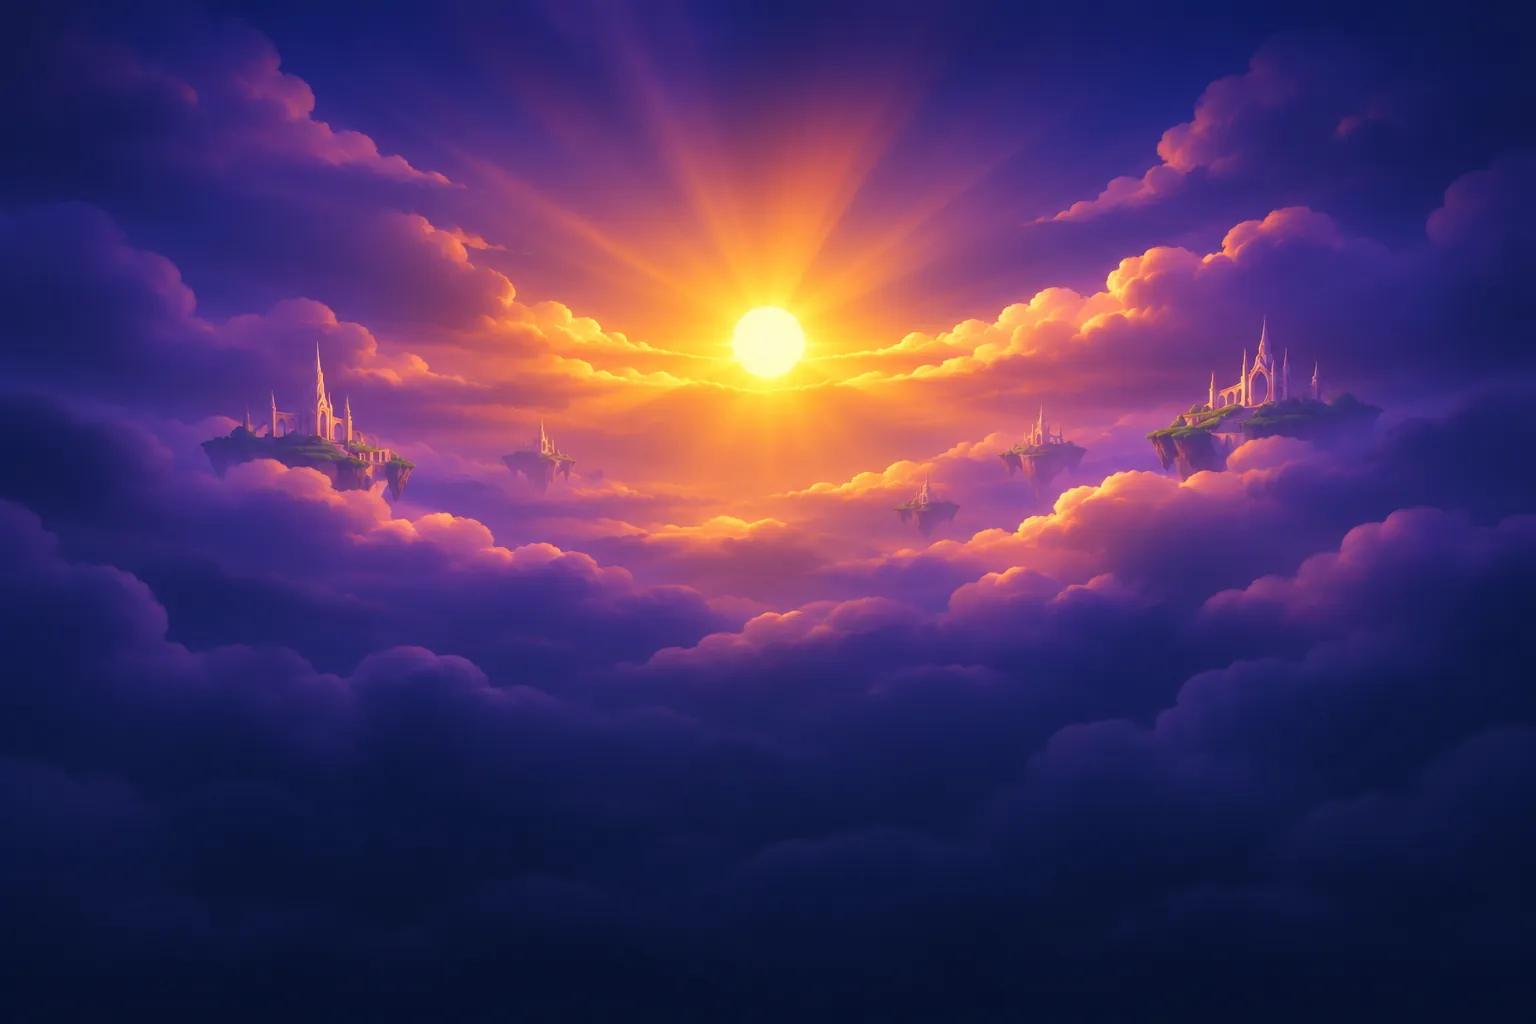
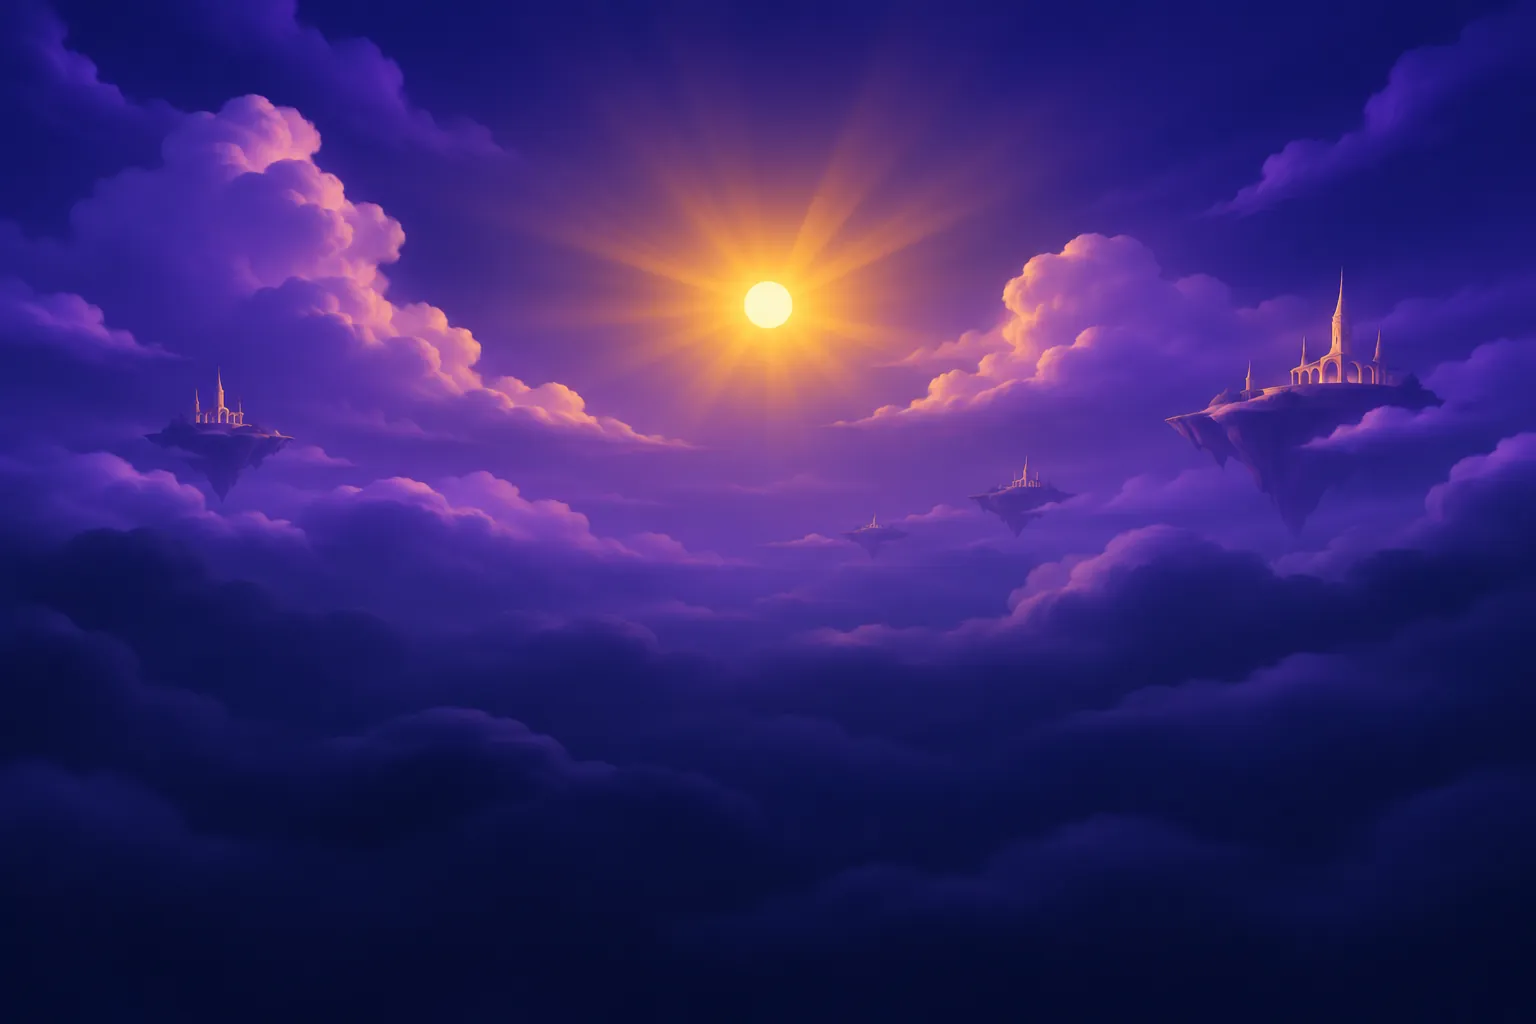
feat(site): a ?tune panel for placing the top scene's pieces; new sky and Oona + Recaller art
Adding ?tune to the address loads a panel to move, resize and set the mouse slide of
each layer, the logo and the words, separately for desktop and phone, and copy the
numbers out. It is a separate chunk, never downloaded by an ordinary visit.

diff --git a/apps/site/src/tuner.ts b/apps/site/src/tuner.ts
@@ -1,0 +1,204 @@
+/**
+ * The top section tuner: a panel for moving and resizing the scene's pieces live. Opened by adding `?tune` to the page
+ * address, and loaded only then, so an ordinary visitor never downloads it. Nothing here changes the page for anyone
+ * else: the numbers are kept in this browser and copied out as text to be written into the stylesheet by hand.
+ *
+ * A piece's offset uses the CSS `translate` and `scale` properties, which stack with the `transform` the mouse parallax
+ * writes, so the two never fight. Offsets are in the scene's own unit (`--u`, or `vw` on a phone) so they hold at any
+ * window size.
+ */
+
+interface Tune {
+  x: number;
+  y: number;
+  size: number;
+  depth: number;
+}
+type Layout = 'desktop' | 'phone';
+type Saved = Record<Layout, Record<string, Tune>>;
+
+const KEY = 'ascent-site-top-tune';
+const PIECES: ReadonlyArray<readonly [id: string, label: string, selector: string]> = [
+  ['left-front', 'Drakko + Paragon', '.top__team--left-front'],
+  ['left-back', 'Brian + Lastlight', '.top__team--left-back'],
+  ['right-front', 'Sylus + Voss', '.top__team--right-front'],
+  ['right-back', 'Oona + Recaller', '.top__team--right-back'],
+  ['sky', 'Sky', '.top__sky'],
+  ['logo', 'Logo', '.top__crest'],
+  ['words', 'Headline and button', '.top__inner'],
+];
+
+const CSS = `
+.tuner{position:fixed;top:12px;right:12px;z-index:9999;width:270px;padding:12px;border-radius:10px;font:13px/1.35 system-ui,sans-serif;
+  color:#f3ecdd;background:#0d1220ee;border:1px solid #c9a24a;box-shadow:0 12px 30px #000a;text-align:left}
+.tuner h2{margin:0 0 8px;font:700 13px system-ui,sans-serif;letter-spacing:.08em;text-transform:uppercase;color:#e9c46a}
+.tuner select,.tuner button{font:inherit;color:inherit;background:#1b2338;border:1px solid #47506b;border-radius:6px;padding:5px 8px}
+.tuner select{width:100%;margin-bottom:8px}
+.tuner label{display:grid;grid-template-columns:44px 1fr 52px;align-items:center;gap:6px;margin:4px 0}
+.tuner input[type=range]{width:100%}
+.tuner input[type=number]{width:52px;font:inherit;color:inherit;background:#1b2338;border:1px solid #47506b;border-radius:6px;padding:3px 4px}
+.tuner .row{display:flex;gap:6px;margin-top:8px;flex-wrap:wrap}
+.tuner .hint{margin:8px 0 0;font-size:12px;color:#aab2c8}
+.tuner .mode{float:right;font-weight:400;letter-spacing:0;text-transform:none;color:#aab2c8}
+.tuner-on [data-tune-pick]{outline:2px dashed #e9c46a;outline-offset:-2px}
+.tuner-on .top{touch-action:none}
+`;
+
+const round = (n: number, step: number): number => Math.round(n / step) * step;
+
+export function initTuner(doc: Document): void {
+  const win = doc.defaultView;
+  const stage = doc.querySelector<HTMLElement>('.top');
+  if (!win || !stage) return;
+
+  const els = new Map<string, HTMLElement>();
+  for (const [id, , sel] of PIECES) {
+    const el = stage.querySelector<HTMLElement>(sel);
+    if (el) els.set(id, el);
+  }
+  const base = new Map<string, number>([...els].map(([id, el]) => [id, Number(el.dataset.depth) || 0]));
+
+  const layout = (): Layout => (win.innerWidth >= 760 ? 'desktop' : 'phone');
+  const unit = (): string => (layout() === 'desktop' ? 'var(--u)' : '1vw');
+  /** One unit in pixels, for turning a drag into units. */
+  const unitPx = (): number => (layout() === 'desktop' ? Math.min(win.innerWidth / 100, (win.innerHeight * 1.7778) / 100) : win.innerWidth / 100);
+
+  let saved: Saved = { desktop: {}, phone: {} };
+  try {
+    const raw = win.localStorage.getItem(KEY);
+    if (raw) saved = { desktop: {}, phone: {}, ...(JSON.parse(raw) as Partial<Saved>) };
+  } catch {
+    /* A private window: the tuner still works, it just forgets on reload. */
+  }
+  const get = (id: string): Tune => (saved[layout()][id] ??= { x: 0, y: 0, size: 100, depth: base.get(id) ?? 0 });
+  const store = (): void => {
+    try {
+      win.localStorage.setItem(KEY, JSON.stringify(saved));
+    } catch {
+      /* see above */
+    }
+  };
+
+  const apply = (id: string): void => {
+    const el = els.get(id);
+    if (!el) return;
+    const t = get(id);
+    el.style.translate = `calc(${t.x} * ${unit()}) calc(${t.y} * ${unit()})`;
+    el.style.scale = String(t.size / 100);
+    if (base.has(id) && el.dataset.depth !== undefined) el.dataset.depth = String(t.depth);
+  };
+  const applyAll = (): void => {
+    for (const id of els.keys()) apply(id);
+  };
+
+  doc.head.append(Object.assign(doc.createElement('style'), { textContent: CSS }));
+  doc.documentElement.classList.add('tuner-on');
+  const panel = doc.createElement('div');
+  panel.className = 'tuner';
+  panel.innerHTML = `<h2>Top section tuner <span class="mode" data-mode></span></h2>
+    <select data-pick aria-label="Piece to adjust">${PIECES.filter(([id]) => els.has(id)).map(([id, label]) => `<option value="${id}">${label}</option>`).join('')}</select>
+    ${(['x', 'y', 'size', 'depth'] as const)
+      .map((k) => {
+        const [min, max, step] = k === 'size' ? [30, 250, 1] : k === 'depth' ? [0, 80, 1] : [-60, 60, 0.25];
+        const name = { x: 'Across', y: 'Down', size: 'Size %', depth: 'Slide' }[k];
+        return `<label>${name}<input type="range" data-k="${k}" min="${min}" max="${max}" step="${step}" /><input type="number" data-k="${k}" step="${step}" aria-label="${name}" /></label>`;
+      })
+      .join('')}
+    <div class="row"><button type="button" data-copy>Copy settings</button><button type="button" data-reset-one>Reset piece</button><button type="button" data-reset-all>Reset all</button></div>
+    <p class="hint">Pick a piece, then drag anywhere on the picture to move it. Arrow keys nudge. Scroll over the picture to resize. "Slide" is how far it moves with the mouse. Phone and desktop are tuned separately: narrow the window to tune the phone layout.</p>`;
+  doc.body.append(panel);
+
+  const pick = panel.querySelector<HTMLSelectElement>('[data-pick]')!;
+  const mode = panel.querySelector<HTMLElement>('[data-mode]')!;
+  const inputs = [...panel.querySelectorAll<HTMLInputElement>('input[data-k]')];
+  const current = (): string => pick.value;
+
+  const show = (): void => {
+    const t = get(current());
+    mode.textContent = layout();
+    for (const i of inputs) {
+      const k = i.dataset.k as keyof Tune;
+      i.value = String(t[k]);
+      i.disabled = k === 'depth' && !base.get(current());
+    }
+    for (const [id, el] of els) el.toggleAttribute('data-tune-pick', id === current());
+  };
+  const set = (patch: Partial<Tune>): void => {
+    Object.assign(get(current()), patch);
+    apply(current());
+    store();
+    show();
+  };
+
+  pick.addEventListener('change', show);
+  for (const i of inputs) i.addEventListener('input', () => set({ [i.dataset.k as keyof Tune]: Number(i.value) }));
+
+  panel.querySelector('[data-reset-one]')!.addEventListener('click', () => {
+    delete saved[layout()][current()];
+    apply(current());
+    store();
+    show();
+  });
+  panel.querySelector('[data-reset-all]')!.addEventListener('click', () => {
+    saved[layout()] = {};
+    applyAll();
+    store();
+    show();
+  });
+  const copyBtn = panel.querySelector<HTMLButtonElement>('[data-copy]')!;
+  copyBtn.addEventListener('click', () => {
+    const text = JSON.stringify(saved, null, 1);
+    const done = (ok: boolean): void => {
+      copyBtn.textContent = ok ? 'Copied' : 'Copy failed: see console';
+      if (!ok) console.log(text);
+      win.setTimeout(() => (copyBtn.textContent = 'Copy settings'), 1600);
+    };
+    win.navigator.clipboard.writeText(text).then(() => done(true), () => done(false));
+  });
+
+  // Drag anywhere on the picture to move the picked piece.
+  let drag: { x: number; y: number; t: Tune; px: number } | null = null;
+  stage.addEventListener('pointerdown', (e) => {
+    if ((e.target as Element).closest('a, button')) return;
+    const t = get(current());
+    drag = { x: e.clientX, y: e.clientY, t: { ...t }, px: unitPx() };
+    stage.setPointerCapture(e.pointerId);
+    e.preventDefault();
+  });
+  stage.addEventListener('pointermove', (e) => {
+    if (!drag) return;
+    set({ x: round(drag.t.x + (e.clientX - drag.x) / drag.px, 0.25), y: round(drag.t.y + (e.clientY - drag.y) / drag.px, 0.25) });
+  });
+  const drop = (): void => void (drag = null);
+  stage.addEventListener('pointerup', drop);
+  stage.addEventListener('pointercancel', drop);
+  stage.addEventListener(
+    'wheel',
+    (e) => {
+      e.preventDefault();
+      set({ size: Math.max(30, Math.min(250, get(current()).size + (e.deltaY < 0 ? 1 : -1))) });
+    },
+    { passive: false },
+  );
+  doc.addEventListener('keydown', (e) => {
+    if ((e.target as Element).closest('input, select')) return;
+    const step = e.shiftKey ? 1 : 0.25;
+    const t = get(current());
+    const move: Record<string, Partial<Tune>> = {
+      ArrowLeft: { x: t.x - step },
+      ArrowRight: { x: t.x + step },
+      ArrowUp: { y: t.y - step },
+      ArrowDown: { y: t.y + step },
+    };
+    if (!move[e.key]) return;
+    e.preventDefault();
+    set(move[e.key]);
+  });
+  win.addEventListener('resize', () => {
+    applyAll();
+    show();
+  });
+
+  applyAll();
+  show();
+}

diff --git a/apps/site/src/parallax.ts b/apps/site/src/parallax.ts
@@ -22,7 +22,7 @@ export function initParallax(doc: Document, opts: ParallaxOptions): void {
   if (opts.reducedMotion || !opts.finePointer) return;
   const stage = doc.querySelector<HTMLElement>('.top');
   if (!stage) return;
-  const layers = [...stage.querySelectorAll<HTMLElement>('[data-depth]')].map((el) => ({ el, depth: Number(el.dataset.depth) || 0 }));
+  const layers = [...stage.querySelectorAll<HTMLElement>('[data-depth]')];
   if (!layers.length) return;
 
   const win = doc.defaultView;
@@ -44,7 +44,11 @@ export function initParallax(doc: Document, opts: ParallaxOptions): void {
       x = tx;
       y = ty;
     }
-    for (const { el, depth } of layers) el.style.transform = `translate3d(${(-x * depth).toFixed(2)}px, ${(-y * depth).toFixed(2)}px, 0)`;
+    for (const el of layers) {
+      // Read each frame, not cached: the tuner (tuner.ts) changes a layer's depth live.
+      const depth = Number(el.dataset.depth) || 0;
+      el.style.transform = `translate3d(${(-x * depth).toFixed(2)}px, ${(-y * depth).toFixed(2)}px, 0)`;
+    }
     if (settled) running = false;
     else raf(frame);
   };

diff --git a/apps/site/index.html b/apps/site/index.html
@@ -43,7 +43,7 @@
       <div class="top__scene" aria-hidden="true">
         <img class="top__sky" data-depth="6" src="/hero/sky.webp" alt="" width="1536" height="1024" fetchpriority="high" />
         <img class="top__team top__team--left-back" data-depth="14" src="/hero/left-back.webp" alt="" width="804" height="1043" />
-        <img class="top__team top__team--right-back" data-depth="14" src="/hero/right-back.webp" alt="" width="936" height="999" />
+        <img class="top__team top__team--right-back" data-depth="14" src="/hero/right-back.webp" alt="" width="942" height="1005" />
         <img class="top__team top__team--left-front" data-depth="26" src="/hero/left-front.webp" alt="" width="1023" height="1025" />
         <img class="top__team top__team--right-front" data-depth="26" src="/hero/right-front.webp" alt="" width="998" height="1185" />
       </div>

diff --git a/apps/site/src/main.ts b/apps/site/src/main.ts
@@ -31,5 +31,7 @@ document.addEventListener('DOMContentLoaded', () => {
   initAncients(document);
   initRunes(document);
   initChests(document, { reducedMotion });
+  // The scene tuner: only with ?tune on the address, and only then downloaded.
+  if (new URLSearchParams(window.location.search).has('tune')) void import('./tuner').then((m) => m.initTuner(document));
   initParallax(document, { reducedMotion, finePointer: window.matchMedia('(hover: hover) and (pointer: fine)').matches });
 });
